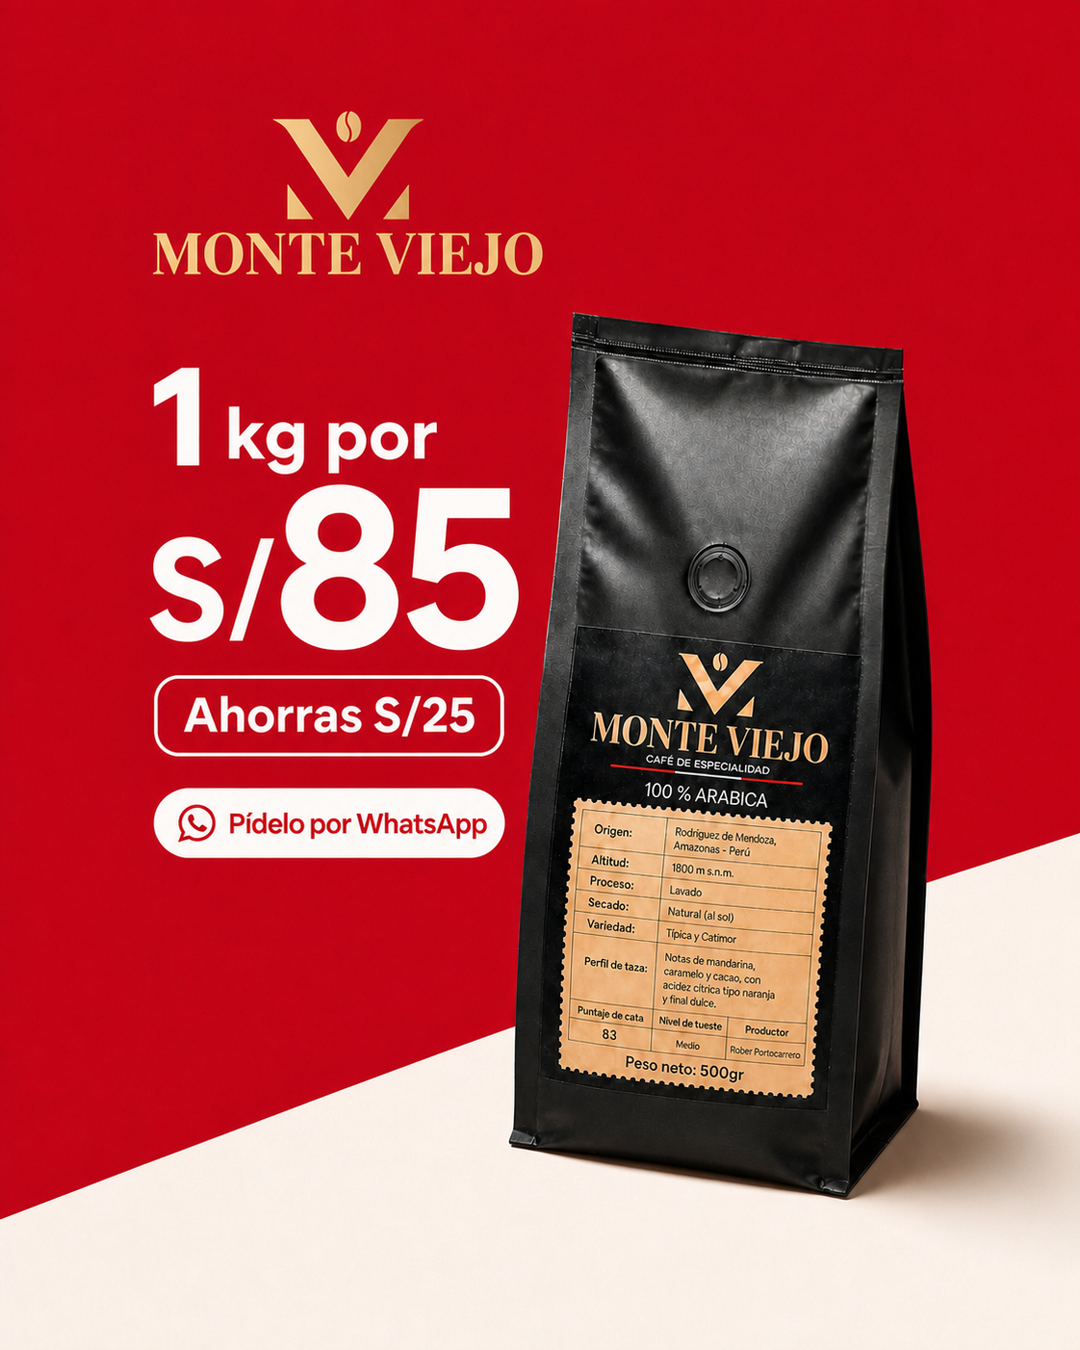
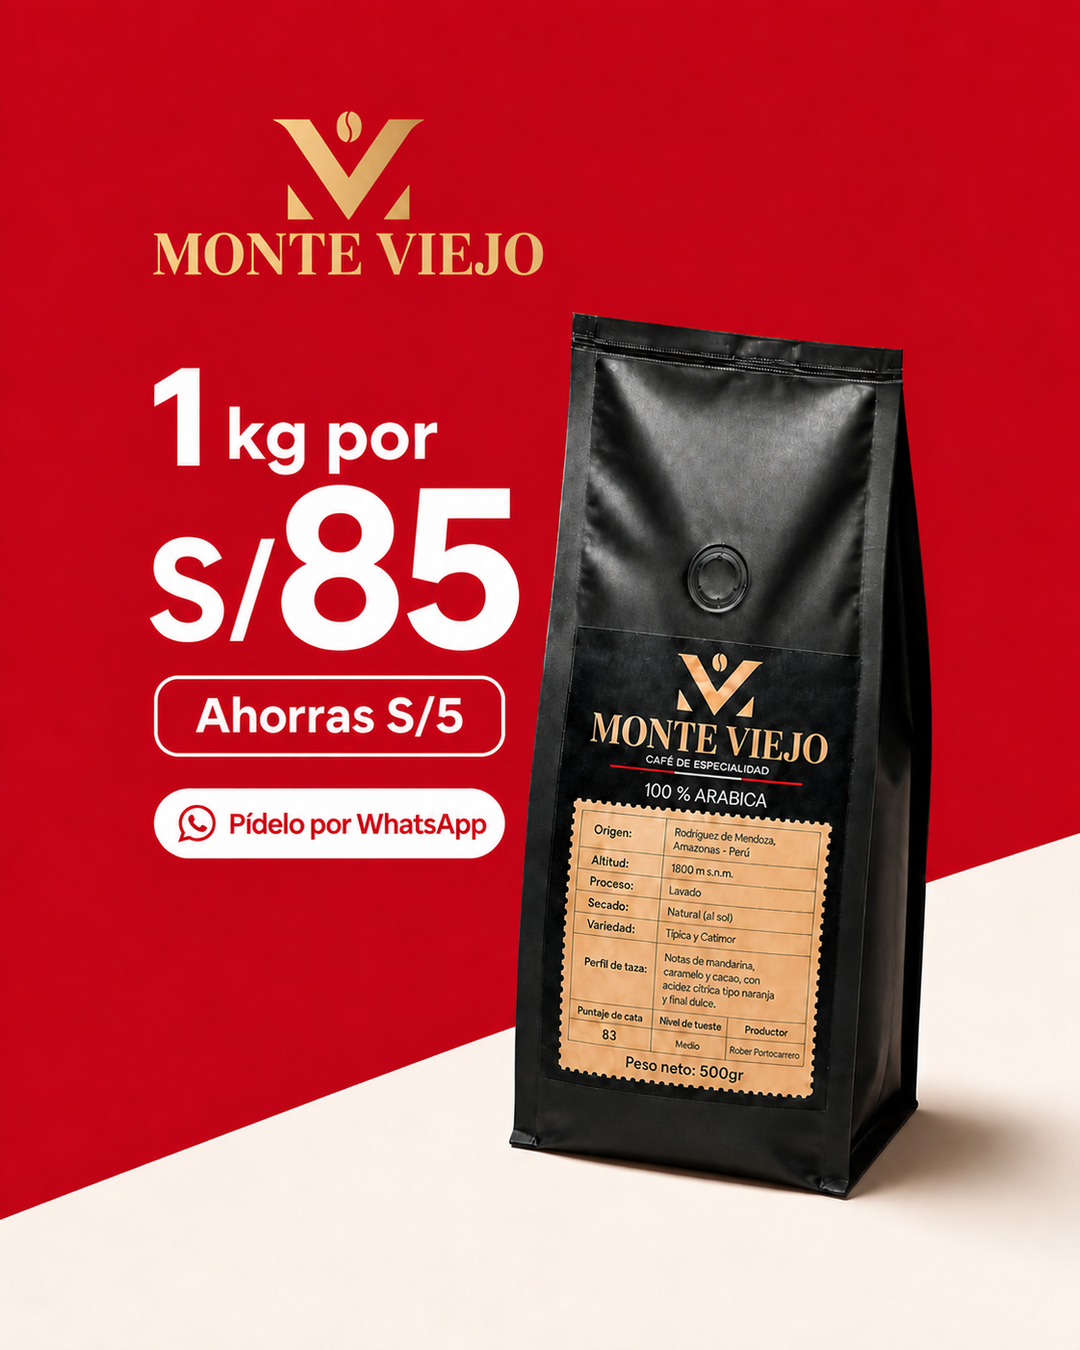
fix(pricing): set 500 g bag to S/45

diff --git a/cafe-de-especialidad-lima/index.html b/cafe-de-especialidad-lima/index.html
@@ -4,7 +4,7 @@
     <meta charset="utf-8">
     <meta name="viewport" content="width=device-width, initial-scale=1, viewport-fit=cover">
     <!-- campaign-seo:generated:start -->
-    <meta name="description" content="Café de especialidad de Amazonas en Lima. Elige café en grano o molido: 500 g por S/55 o 1 kg por S/85 y pide por WhatsApp.">
+    <meta name="description" content="Café de especialidad de Amazonas en Lima. Elige café en grano o molido: 500 g por S/45 o 1 kg por S/85 y pide por WhatsApp.">
     <meta name="robots" content="index, follow, max-image-preview:large">
     <title>Café de especialidad en Lima: 1 kg por S/85 | Monte Viejo</title>
     <link rel="canonical" href="https://monteviejo.org/cafe-de-especialidad-lima/">
@@ -12,13 +12,13 @@
     <meta property="og:locale" content="es_PE">
     <meta property="og:site_name" content="Monte Viejo">
     <meta property="og:title" content="Café de especialidad en Lima: 1 kg por S/85 | Monte Viejo">
-    <meta property="og:description" content="Café de especialidad de Amazonas en Lima. Elige café en grano o molido: 500 g por S/55 o 1 kg por S/85 y pide por WhatsApp.">
+    <meta property="og:description" content="Café de especialidad de Amazonas en Lima. Elige café en grano o molido: 500 g por S/45 o 1 kg por S/85 y pide por WhatsApp.">
     <meta property="og:url" content="https://monteviejo.org/cafe-de-especialidad-lima/">
     <meta property="og:image" content="https://monteviejo.org/assets/images/share-monte-viejo-graphic.jpg">
     <meta property="og:image:alt" content="Café Monte Viejo de Rodríguez de Mendoza, Amazonas">
     <meta name="twitter:card" content="summary_large_image">
     <meta name="twitter:title" content="Café de especialidad en Lima: 1 kg por S/85 | Monte Viejo">
-    <meta name="twitter:description" content="Café de especialidad de Amazonas en Lima. Elige café en grano o molido: 500 g por S/55 o 1 kg por S/85 y pide por WhatsApp.">
+    <meta name="twitter:description" content="Café de especialidad de Amazonas en Lima. Elige café en grano o molido: 500 g por S/45 o 1 kg por S/85 y pide por WhatsApp.">
     <meta name="twitter:image" content="https://monteviejo.org/assets/images/share-monte-viejo-graphic.jpg">
     <script type="application/ld+json">
       {
@@ -77,7 +77,7 @@
               <span class="visually-hidden" data-campaign="headline">Café de especialidad de Amazonas en Lima</span>
               <span aria-hidden="true" data-campaign="offerSize">1 kg</span><small aria-hidden="true">por</small><strong aria-hidden="true" data-campaign="offerAmount">S/85</strong>
             </h1>
-            <p class="offer-saving" data-campaign="saving">Ahorras S/25</p>
+            <p class="offer-saving" data-campaign="saving">Ahorras S/5</p>
             <a class="button button-light hero-action" href="#pedido">
               <svg viewBox="0 0 24 24" aria-hidden="true"><path d="M17.47 14.38c-.3-.15-1.76-.87-2.03-.97-.27-.1-.47-.15-.67.15-.2.3-.77.97-.94 1.17-.17.2-.35.22-.64.07-.3-.15-1.25-.46-2.38-1.47a8.9 8.9 0 0 1-1.65-2.05c-.17-.3-.02-.46.13-.61.13-.13.3-.35.45-.52.15-.18.2-.3.3-.5.1-.2.05-.37-.03-.52-.07-.15-.67-1.61-.91-2.2-.24-.58-.49-.5-.67-.51h-.57c-.2 0-.52.07-.79.37-.27.3-1.04 1.02-1.04 2.48s1.07 2.88 1.21 3.08c.15.2 2.1 3.2 5.08 4.49.71.3 1.26.49 1.7.63.71.23 1.36.2 1.87.12.57-.09 1.76-.72 2.01-1.42.25-.69.25-1.29.17-1.41-.07-.13-.27-.2-.57-.35M12.04 21.5h-.01a9.6 9.6 0 0 1-4.9-1.34l-.35-.21-3.64.95.97-3.55-.23-.36A9.57 9.57 0 0 1 2.4 11.9a9.64 9.64 0 0 1 9.63-9.62c2.57 0 4.98 1 6.8 2.82a9.56 9.56 0 0 1 2.82 6.81 9.64 9.64 0 0 1-9.61 9.59m8.19-17.8A11.5 11.5 0 0 0 12.03.3C5.66.3.48 5.48.48 11.86c0 2.04.53 4.03 1.55 5.78L.38 23.7l6.2-1.63a11.55 11.55 0 0 0 5.45 1.39h.01c6.37 0 11.55-5.18 11.55-11.56 0-3.09-1.2-6-3.36-8.19"></path></svg>
               <span data-campaign="heroButton">Armar mi pedido</span>
@@ -99,10 +99,10 @@
             <fieldset class="choice-group size-group">
               <legend>1. Elige tu tamaño</legend>
               <div class="choice-grid size-grid">
-                <input type="radio" name="size" id="size-500" value="500 g" data-price="S/55">
+                <input type="radio" name="size" id="size-500" value="500 g" data-price="S/45">
                 <label class="choice-card" for="size-500">
                   <span class="choice-name">500 g</span>
-                  <strong>S/55</strong>
+                  <strong>S/45</strong>
                   <span>Para probar</span>
                 </label>
 
@@ -111,7 +111,7 @@
                   <span class="choice-badge">Mejor precio</span>
                   <span class="choice-name">1 kg</span>
                   <strong>S/85</strong>
-                  <span>Ahorras S/25</span>
+                  <span>Ahorras S/5</span>
                 </label>
               </div>
             </fieldset>
@@ -271,7 +271,7 @@
       <span>Rodríguez de Mendoza, Amazonas · 2026</span>
     </footer>
 
-    <script src="../content.js?v=20260818-1" defer></script>
+    <script src="../content.js?v=20261004-1" defer></script>
     <script src="campaign.js?v=20260818-1" defer></script>
   </body>
 </html>

diff --git a/index.html b/index.html
@@ -164,11 +164,11 @@
           <a class="campaign-option__card" href="cafe-de-especialidad-lima/">
             <div class="campaign-option__copy">
               <h2 id="campaign-banner-title"><span class="campaign-banner-offer">1 kg por S/85</span><span class="campaign-option__location">en Lima</span></h2>
-              <p><strong class="campaign-banner-saving">Ahorras S/25.</strong> Elige café en grano o molido.</p>
+              <p><strong class="campaign-banner-saving">Ahorras S/5.</strong> Elige café en grano o molido.</p>
               <span class="campaign-banner-cta campaign-option__cta"><span>Armar mi pedido</span><svg viewBox="0 0 24 24" aria-hidden="true"><path d="M5 12h14M13 6l6 6-6 6"></path></svg></span>
               <small class="campaign-banner-terms campaign-option__terms">Válido hasta el 30 de septiembre de 2026 o hasta agotar 100 unidades.</small>
             </div>
-            <div class="campaign-option__media" aria-hidden="true"><img src="assets/images/campaign/meta-lima-product-choice-4x5.png" alt="" width="1080" height="1350" loading="lazy" decoding="async"></div>
+            <div class="campaign-option__media" aria-hidden="true"><img src="assets/images/campaign/meta-lima-product-choice-4x5.png?v=20261004-1" alt="" width="1080" height="1350" loading="lazy" decoding="async"></div>
           </a>
         </div>
       </section>
@@ -177,7 +177,7 @@
         <div class="container">
           <div class="section-heading">
             <h2 id="catalog-title">Nuestros cafés</h2>
-            <p class="section-intro">Café tostado en grano o molido: 500 g por S/55 o 1 kg por S/85. También ofrecemos café verde y pedidos para negocios.</p>
+            <p class="section-intro">Café tostado en grano o molido: 500 g por S/45 o 1 kg por S/85. También ofrecemos café verde y pedidos para negocios.</p>
           </div>
 
           <div class="product-grid">
@@ -188,13 +188,13 @@
                 <h3>Café tostado en grano</h3>
                 <span class="product-cta">Pedir por WhatsApp</span>
                 <p class="product-copy">Un tueste balanceado, con dulzor natural, buen aroma y una taza limpia.</p>
-                <ul class="product-specs"><li>500 g S/55 · 1 kg S/85</li><li>Caramelo, cacao, panela y nuez</li><li>Para espresso, moka, prensa y filtrados</li></ul>
+                <ul class="product-specs"><li>500 g S/45 · 1 kg S/85</li><li>Caramelo, cacao, panela y nuez</li><li>Para espresso, moka, prensa y filtrados</li></ul>
               </div>
             </a>
 
             <a class="product-card ground" href="https://api.whatsapp.com/send?phone=51993908403&amp;text=Hola%2C%20quiero%20pedir%20Caf%C3%A9%20molido%20Monte%20Viejo." target="_blank" rel="noopener">
               <img src="assets/images/catalogo-molido-horizontal.webp" alt="Bolsa Monte Viejo detrás de una cuchara con café molido" width="1200" height="675" loading="lazy" decoding="async">
-              <div class="product-content"><h3>Café molido</h3><span class="product-cta">Pedir por WhatsApp</span><p class="product-copy">Molienda fina, media o gruesa según cómo prepares tu café.</p><ul class="product-specs"><li>500 g S/55 · 1 kg S/85</li><li>Empacado para conservar aroma</li><li>Para cafetera, moka, prensa y filtrado</li></ul></div>
+              <div class="product-content"><h3>Café molido</h3><span class="product-cta">Pedir por WhatsApp</span><p class="product-copy">Molienda fina, media o gruesa según cómo prepares tu café.</p><ul class="product-specs"><li>500 g S/45 · 1 kg S/85</li><li>Empacado para conservar aroma</li><li>Para cafetera, moka, prensa y filtrado</li></ul></div>
             </a>
 
             <details class="business-products" open>
@@ -295,7 +295,7 @@
       </div>
     </footer>
 
-    <script src="content.js?v=20260818-1" defer></script>
+    <script src="content.js?v=20261004-1" defer></script>
     <script src="assets/js/content-loader.js?v=20260818-1" defer></script>
   </body>
 </html>

diff --git a/content.js b/content.js
@@ -1,7 +1,7 @@
 window.siteContent = {
   site: {
     title: "Café de especialidad de Amazonas | Monte Viejo",
-    description: "Café de especialidad de Rodríguez de Mendoza, Amazonas. Elige café tostado en grano o molido: 500 g por S/55 o 1 kg por S/85.",
+    description: "Café de especialidad de Rodríguez de Mendoza, Amazonas. Elige café tostado en grano o molido: 500 g por S/45 o 1 kg por S/85.",
     brandName: "Monte Viejo",
     canonicalUrl: "https://monteviejo.org/",
     language: "es-PE",
@@ -49,7 +49,7 @@ window.siteContent = {
   catalog: {
     eyebrow: "Café verde, tostado y molido",
     title: "Nuestros cafés",
-    intro: "Café tostado en grano o molido: 500 g por S/55 o 1 kg por S/85. También ofrecemos café verde y pedidos para negocios.",
+    intro: "Café tostado en grano o molido: 500 g por S/45 o 1 kg por S/85. También ofrecemos café verde y pedidos para negocios.",
     origin: {
       eyebrow: "De dónde viene",
       title: "Rodríguez de Mendoza, Amazonas",
@@ -70,7 +70,7 @@ window.siteContent = {
         imageAlt: "Bolsa Monte Viejo detrás de un recipiente con café tostado en grano",
         text: "Es un tueste balanceado para tomar todos los días o servir en cafetería. Tiene dulzor natural, buen aroma y una taza limpia.",
         specs: [
-          "500 g S/55 · 1 kg S/85",
+          "500 g S/45 · 1 kg S/85",
           "Notas de caramelo, cacao, panela y nuez",
           "Para espresso, moka, prensa y métodos filtrados"
         ],
@@ -84,7 +84,7 @@ window.siteContent = {
         text: "Lo tostamos, molemos y empacamos para conservar su aroma. Puedes elegir la molienda según cómo prepares tu café.",
         specs: [
           "Molienda fina, media o gruesa",
-          "500 g S/55 · 1 kg S/85",
+          "500 g S/45 · 1 kg S/85",
           "Para cafetera eléctrica, moka, prensa y métodos filtrados"
         ],
         cta: "Pedir por WhatsApp",
@@ -144,7 +144,7 @@ window.siteContent = {
 
   campaign: {
     title: "Café de especialidad en Lima: 1 kg por S/85 | Monte Viejo",
-    description: "Café de especialidad de Amazonas en Lima. Elige café en grano o molido: 500 g por S/55 o 1 kg por S/85 y pide por WhatsApp.",
+    description: "Café de especialidad de Amazonas en Lima. Elige café en grano o molido: 500 g por S/45 o 1 kg por S/85 y pide por WhatsApp.",
     canonicalUrl: "https://monteviejo.org/cafe-de-especialidad-lima/",
     socialImage: "assets/images/share-monte-viejo-graphic.jpg",
     socialImageAlt: "Café Monte Viejo de Rodríguez de Mendoza, Amazonas",
@@ -152,13 +152,13 @@ window.siteContent = {
     offer: "1 kg por S/85",
     offerSize: "1 kg",
     offerAmount: "S/85",
-    saving: "Ahorras S/25",
+    saving: "Ahorras S/5",
     heroButton: "Armar mi pedido",
     productImage: "assets/images/bolsa-monte-viejo-hero-angulo.webp",
     productImageAlt: "Bolsa Monte Viejo de 500 g vista en ángulo, imagen referencial de la campaña",
     productImageNote: "Presentación fotografiada: 500 g",
     sizes: [
-      { value: "500 g", price: "S/55" },
+      { value: "500 g", price: "S/45" },
       { value: "1 kg", price: "S/85", featured: true }
     ],
     preparations: ["En grano", "Molido"],

diff --git a/.impeccable/surfaces/cafe-de-especialidad-lima-index-html.md b/.impeccable/surfaces/cafe-de-especialidad-lima-index-html.md
@@ -10,7 +10,7 @@ related_targets: ["cafe-de-especialidad-lima/campaign.css","cafe-de-especialidad
 - **Scope and mode:** Persuade surface at `cafe-de-especialidad-lima/index.html`; mobile-first, Spanish, static GitHub Pages.
 - **Audience and job:** Lima home-coffee drinkers aged roughly 25–54 must understand the launch value, choose a format, and start a complete WhatsApp order.
 - **Action and proof:** Primary action is WhatsApp. Proof is the real Monte Viejo package, family, Rodríguez de Mendoza landscape, +1600 m s. n. m., washed process, and estimated 83 SCA.
-- **Offer:** 500 g at S/55; featured 1 kg at S/85; honest S/25 saving against two 500 g bags. Whole bean or ground. Yape, Plin, and transfer. Delivery has an additional cost quoted by district, with free delivery on purchases over S/200. Valid through September 30, 2026, or the first 100 units.
+- **Offer:** 500 g at S/45; featured 1 kg at S/85; honest S/5 saving against two 500 g bags. Whole bean or ground. Yape, Plin, and transfer. Delivery has an additional cost quoted by district, with free delivery on purchases over S/200. Valid through September 30, 2026, or the first 100 units.
 - **Direction:** Approved comp `.impeccable/mocks/lima-campaign-combined-preview.png`. Bag-led cherry hero from Option 1, followed by Option 2's clean selection and proof system. Preserve offer → size → preparation → district → WhatsApp.
 - **Memorable moment:** The real black package crosses a diagonal cherry-to-paper seam beside the large S/85 offer; the order choices begin immediately below it.
 - **Boundaries:** Keep the established Cereza total system. No S/130 reference, false crossed-out price, free shipping, countdown, testimonials, cart, checkout, or invented delivery time. The available package photograph says 500 g and is a temporary product reference; do not label the photographed package as 1 kg.

diff --git a/.impeccable/lima-campaign-surface-brief.md b/.impeccable/lima-campaign-surface-brief.md
@@ -3,7 +3,7 @@
 - **Scope and mode:** Persuade surface at `cafe-de-especialidad-lima/index.html`; mobile-first, Spanish, static GitHub Pages.
 - **Audience and job:** Lima home-coffee drinkers aged roughly 25–54 must understand the launch value, choose a format, and start a complete WhatsApp order.
 - **Action and proof:** Primary action is WhatsApp. Proof is the real Monte Viejo package, family, Rodríguez de Mendoza landscape, +1600 m s. n. m., washed process, and estimated 83 SCA.
-- **Offer:** 500 g at S/55; featured 1 kg at S/85; honest S/25 saving against two 500 g bags. Whole bean or ground. Yape, Plin, and transfer. Delivery has an additional cost quoted by district, with free delivery on purchases over S/200. Valid through September 30, 2026, or the first 100 units.
+- **Offer:** 500 g at S/45; featured 1 kg at S/85; honest S/5 saving against two 500 g bags. Whole bean or ground. Yape, Plin, and transfer. Delivery has an additional cost quoted by district, with free delivery on purchases over S/200. Valid through September 30, 2026, or the first 100 units.
 - **Direction:** Approved comp `.impeccable/mocks/lima-campaign-combined-preview.png`. Bag-led cherry hero from Option 1, followed by Option 2's clean selection and proof system. Preserve offer → size → preparation → district → WhatsApp.
 - **Memorable moment:** The real black package crosses a diagonal cherry-to-paper seam beside the large S/85 offer; the order choices begin immediately below it.
 - **Boundaries:** Keep the established Cereza total system. No S/130 reference, false crossed-out price, free shipping, countdown, testimonials, cart, checkout, or invented delivery time. The available package photograph says 500 g and is a temporary product reference; do not label the photographed package as 1 kg.

diff --git a/campain.md b/campain.md
@@ -9,8 +9,8 @@ https://monteviejo.org/cafe-de-especialidad-lima/
 Oferta principal:
 
 - 1 kg por S/85.
-- Ahorro real de S/25 frente a dos bolsas de 500 g.
-- 500 g por S/55.
+- Ahorro real de S/5 frente a dos bolsas de 500 g.
+- 500 g por S/45.
 - Café en grano o molido.
 - Pago por Yape, Plin o transferencia.
 - Envío adicional según distrito.
@@ -51,7 +51,7 @@ Meta puede distribuir el gasto de forma irregular entre días. El límite import
 
 ## Anuncios para probar
 
-1. **Oferta:** 1 kg por S/85 y ahorro de S/25.
+1. **Oferta:** 1 kg por S/85 y ahorro de S/5.
 2. **Producto:** bolsa de café, café en grano o molido y pedido sencillo.
 3. **Origen:** familia productora y café de Rodríguez de Mendoza, Amazonas.
 
